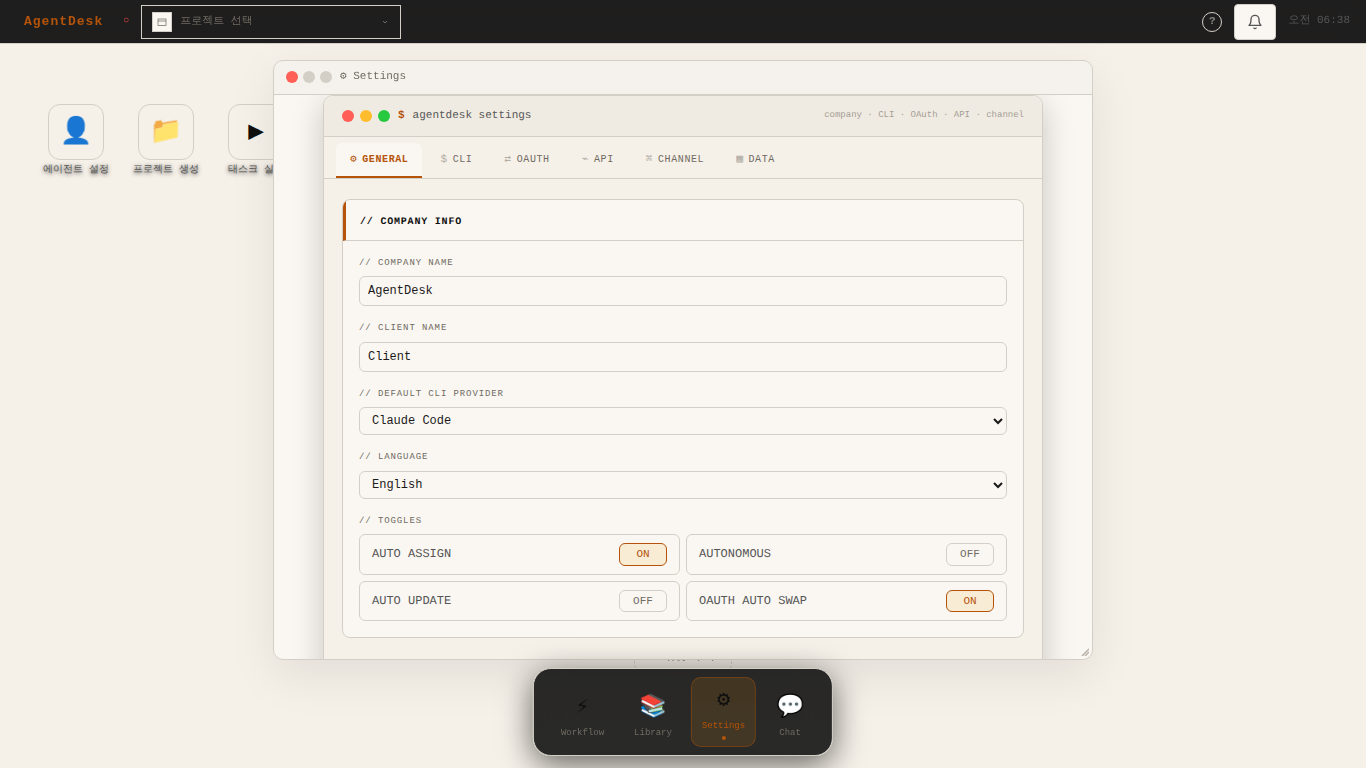
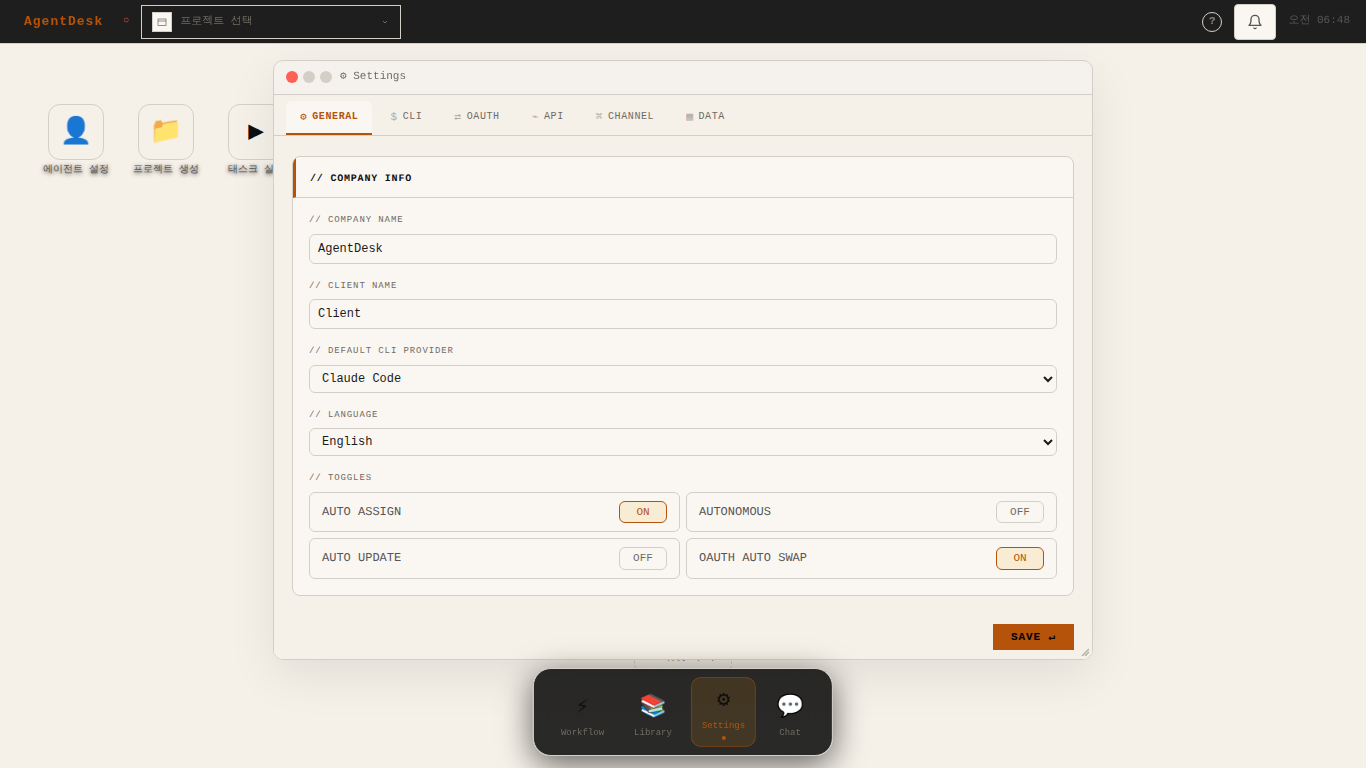
Remove duplicate window chrome from SettingsPanel
SettingsPanel was rendering its own macOS-style titlebar (traffic lights +
'$ agentdesk settings' header) inside AppWindow which already provides a
titlebar — causing a double-window appearance. Removed the inner fake
titlebar and matching border/shadow/borderRadius wrapper styles.

https://claude.ai/code/session_01SSG1EkcMjdyMt5FqBYPhTX

diff --git a/src/components/SettingsPanel.tsx b/src/components/SettingsPanel.tsx
@@ -426,44 +426,11 @@ export default function SettingsPanel({
         display: "flex",
         flexDirection: "column",
         gap: 0,
-        maxWidth: 720,
-        margin: "0 auto",
         width: "100%",
-        borderRadius: 10,
         overflow: "hidden",
-        background: "var(--th-bg-elevated)",
-        border: "1px solid var(--th-border)",
-        boxShadow: "0 8px 32px rgba(0,0,0,0.2)",
+        background: "var(--th-bg-surface)",
       }}
     >
-      {/* CLI 헤더 — macOS 스타일 */}
-      <div
-        style={{
-          borderBottom: "1px solid var(--th-border)",
-          padding: "12px 18px",
-          background: "var(--th-bg-panel)",
-          display: "flex",
-          alignItems: "center",
-          gap: 8,
-          borderTopLeftRadius: 10,
-          borderTopRightRadius: 10,
-          backdropFilter: "blur(12px)",
-          WebkitBackdropFilter: "blur(12px)",
-        }}
-      >
-        {/* macOS 트래픽 라이트 (●●●) */}
-        <div className="flex flex-shrink-0 items-center gap-1.5">
-          <div className="h-3 w-3 flex-shrink-0 rounded-full" style={{ background: "#ff5f57" }} aria-hidden />
-          <div className="h-3 w-3 flex-shrink-0 rounded-full" style={{ background: "#ffbd2e" }} aria-hidden />
-          <div className="h-3 w-3 flex-shrink-0 rounded-full" style={{ background: "#27c93f" }} aria-hidden />
-        </div>
-        <span style={{ color: "var(--th-accent)", fontWeight: 700, fontSize: "11px" }}>$</span>
-        <span style={{ fontSize: "11px", color: "var(--th-text-secondary)" }}>agentdesk settings</span>
-        <span style={{ marginLeft: "auto", fontSize: "9px", color: "var(--th-text-muted)", opacity: 0.6 }}>
-          {t({ ko: "회사 정보 · CLI · OAuth · API · 채널", en: "company · CLI · OAuth · API · channel", ja: "会社・CLI・OAuth・API・チャネル", zh: "公司 · CLI · OAuth · API · 频道" })}
-        </span>
-      </div>
-
       <SettingsTabNav tab={tab} setTab={setTab} t={t} />
 
       <div
